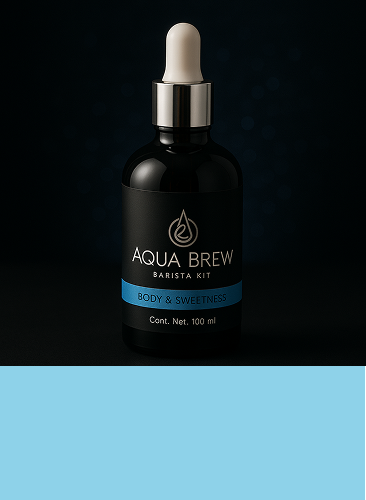
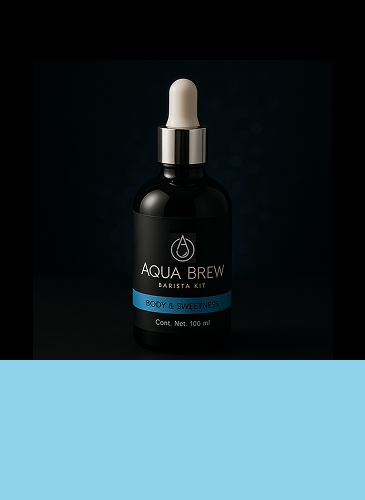
new kit product

Changed region(s): [[0.3315, 0.03, 0.663, 0.66], [0.0, 0.72, 1.0, 1.0]]

diff --git a/site.html b/site.html
@@ -121,6 +121,19 @@
         <h2 class="text-3xl font-bold text-center text-gray-900 mb-12">Nuestros Kits Especializados</h2>
         
         <div class="grid grid-cols-1 lg:grid-cols-2 gap-12">
+            <!-- Producto 0 -->
+            <div class="bg-white rounded-xl shadow-lg overflow-hidden flex flex-col md:flex-row h-auto md:h-96">
+                <div class="w-full md:w-1/2 h-64 md:h-auto bg-cover bg-center" style="background-image: url('images/kit00.png');"></div>
+                <div class="w-full md:w-1/2 p-8 flex flex-col justify-center border-t-4 border-gray-900">
+                    <h3 class="text-2xl font-bold text-gray-800 mb-2">Kit Completo</h3>
+                    <div class="w-12 h-1 bg-gray-900 mb-4"></div>
+                    <p class="text-gray-600 mb-6">Aporta acidez brillante y notas frutales florales, con tonos de frutas cítricas.</p>
+                    <button onclick="openModal('fruit')" class="mt-auto bg-black text-white py-3 px-6 rounded-md hover:bg-opacity-90 transition transform hover:scale-105 w-full md:w-auto">
+                        Comprar Kit
+                    </button>
+                </div>
+            </div>
+
             <!-- Producto 1 -->
             <div class="bg-white rounded-xl shadow-lg overflow-hidden flex flex-col md:flex-row h-auto md:h-96">
                 <div class="w-full md:w-1/2 h-64 md:h-auto bg-cover bg-center" style="background-image: url('images/kit01.png');"></div>
